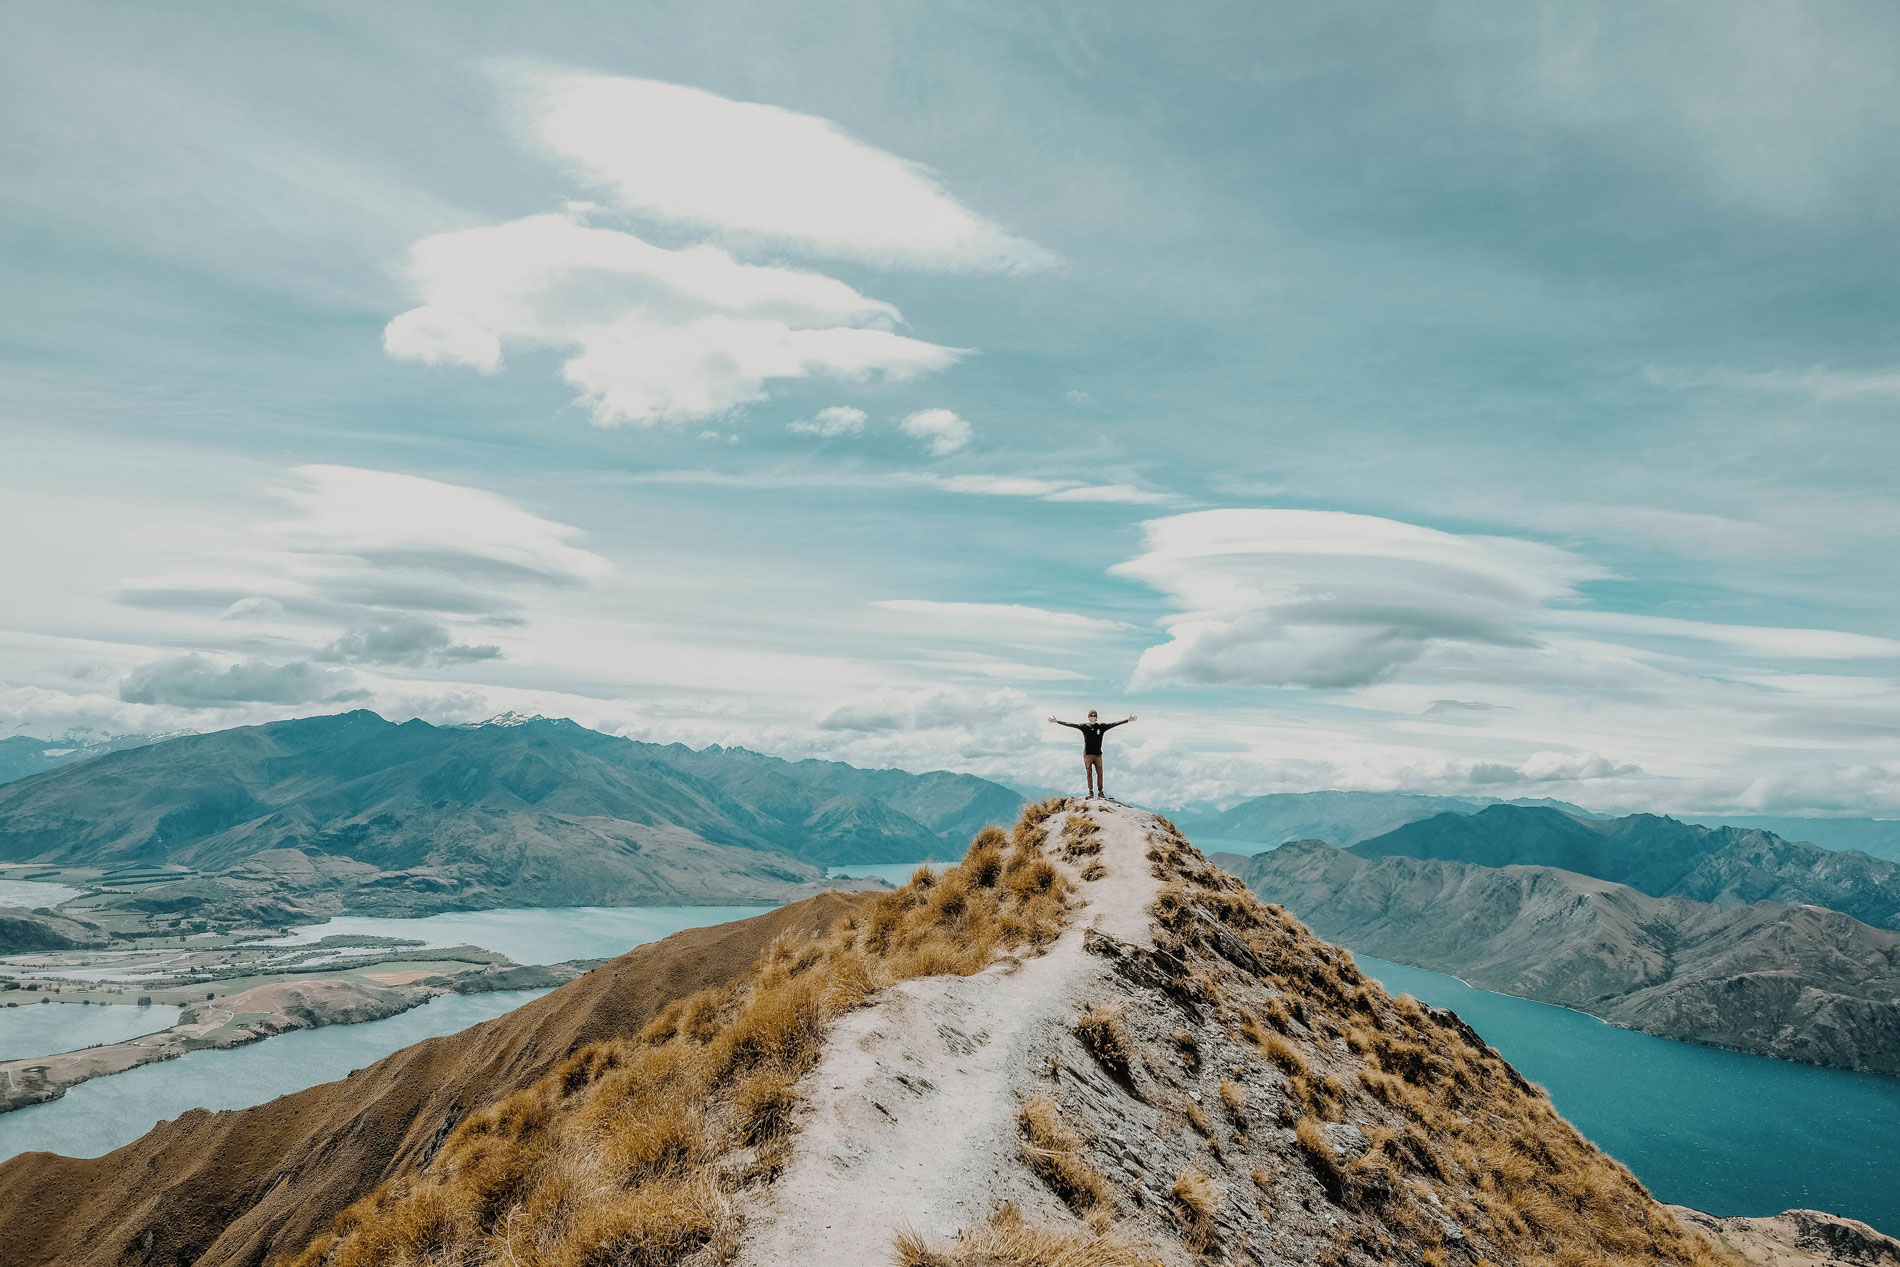
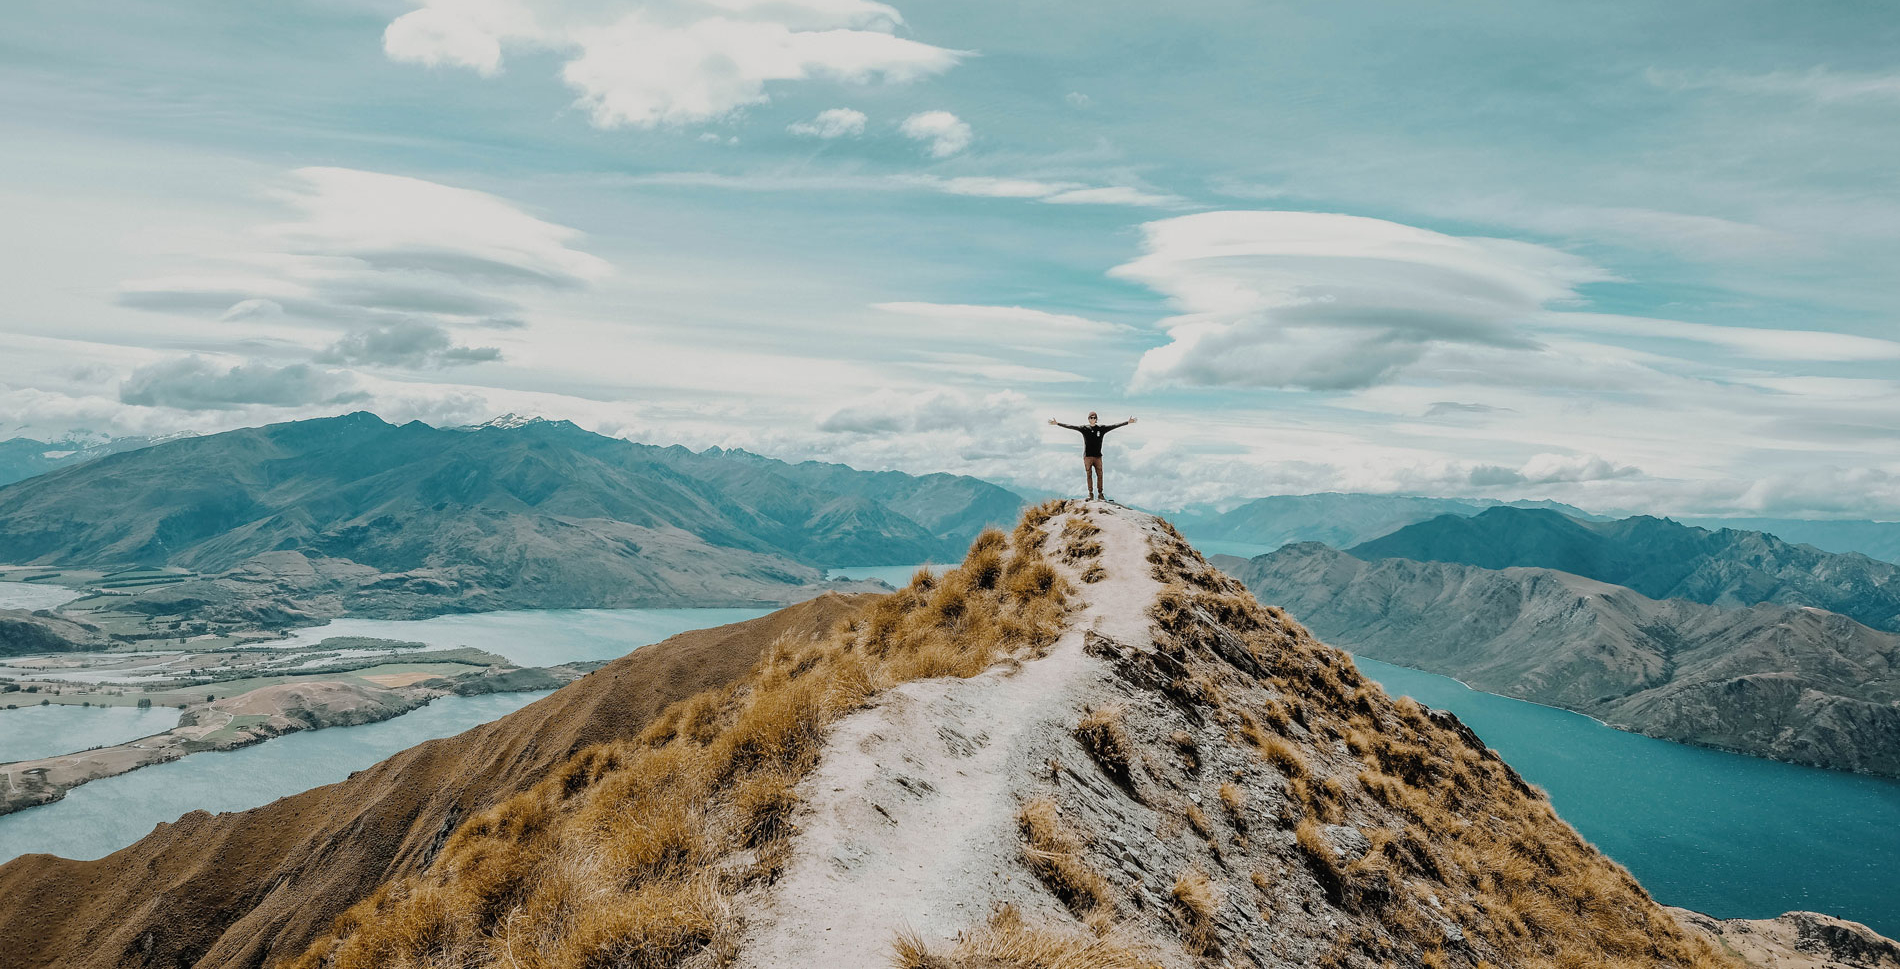
background

diff --git a/src/templates/index-page.js b/src/templates/index-page.js
@@ -27,7 +27,7 @@ export const IndexPageTemplate = ({
           backgroundAttachment: `fixed`,
         }}
       >
-        <div className="black-overlay"></div>
+        <div className="black-overlay-bottom"></div>
         <img className="header-logo" src="/img/logo.png" />
       </div>
       <section className="section section-gradient">
@@ -59,18 +59,6 @@ export const IndexPageTemplate = ({
                       </h4>
                     </div>
                   </div>
-                  <div
-                    className="full-width-image margin-top-0"
-                    style={{
-                      backgroundImage: `url(${
-                        !!image2.childImageSharp ? image2.childImageSharp.fluid.src : image2
-                        })`,
-                      backgroundPosition: `top left`,
-                      backgroundAttachment: `fixed`,
-                    }}
-                  >
-                    {/* <div className="black-overlay"></div> */}
-                  </div>
                   {/* <Features gridItems={intro.blurbs} /> */}
                   <div className="columns">
                     <div className="column is-12 has-text-centered">
@@ -85,6 +73,24 @@ export const IndexPageTemplate = ({
           </div>
         </div>
       </section>
+      <div
+        className="full-width-image-short"
+        style={{
+          backgroundImage: `url(${
+            !!image2.childImageSharp ? image2.childImageSharp.fluid.src : image2
+            })`,
+          backgroundPosition: `top left`,
+          backgroundAttachment: `fixed`,
+          width: '100vw',
+          height: '300px',
+          backgroundSize: 'cover',
+          display: 'flex',
+          justifyContent: 'center',
+          alignItems: 'center'
+        }}
+      >
+        <div className="black-overlay"></div>
+      </div>
     </div>
   )
 
@@ -149,8 +155,14 @@ export const pageQuery = graphql`
           description
         }
         description
-        newsletter{
-          image
+        newsletter {
+          image {
+          childImageSharp {
+            fluid(maxWidth: 2048, quality: 100) {
+              ...GatsbyImageSharpFluid
+            }
+          }
+        }
         }
       }
     }

diff --git a/src/components/all.sass b/src/components/all.sass
@@ -10,7 +10,7 @@ $subtitle-color: $majestic-green
 $primary: $majestic-green
 $primary-invert: $majestic-green-invert
 $body-color: #000
-$black: #2b2523
+$black: #0a0a0a
   
 @mixin gradient($direction, $list...) 
   background: -webkit-linear-gradient($direction, $list)
@@ -38,7 +38,7 @@ navbar-item a
     margin-top: 0
 
 .section
-  background: black
+  background: $black
   color: white
 
 // Helper Classes
@@ -64,13 +64,21 @@ navbar-item a
   justify-content: center
   align-items: center
 
-.black-overlay
+.black-overlay-bottom
   position: absolute
   z-index: 1
   background-color: rgba(0,0,0,0.3)
-  @include gradient(bottom, black 1%, rgba(0,0,0,0.3))
+  @include gradient(bottom, $black 1%, rgba(0,0,0,0.3))
   width: 100vw
-  height: 601px
+  height: inherit
+
+.black-overlay
+  position: absolute
+  z-index: 2
+  background-color: rgba(0,0,0,0.3)
+  @include gradient(#0a0a0a, rgba(10,10,10,0.3) 90%, #0a0a0a)
+  width: 100vw
+  height: inherit
 
 .header-logo
   position: relative
@@ -121,7 +129,7 @@ navbar-item a
 .icon svg
   width: 1.5rem
   height: 1.5rem
-  fill: black
+  fill: $black
 
 .navbar-item.logo
   color: white
@@ -135,14 +143,14 @@ navbar-item a
   position: fixed
   animation: moveDown 0.5s ease-in-out
   .navbar-start a
-    color: black
+    color: $black
   .navbar-item.logo
-    color: black
+    color: $black
   .navbar-burger
-    color : black
+    color : $black
 
 .navbar-sticky > .navbar .logo
-  color: black
+  color: $black
 
 
 .navbar-brand .navbar-item.logo
@@ -195,14 +203,14 @@ $menu-label-color: $white-ter
   .blog-list-item .featured-thumbnail
     flex-basis: 50%
   .navbar-start a 
-    color: black
+    color: $black
 
 +mobile
   .navbar
     top: 0
     position: fixed
   .navbar-start a 
-    color: black
+    color: $black
   .full-width-image
     height: 300px
   .black-overlay
